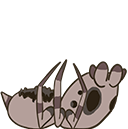
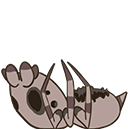
Ability zone hook

diff --git a/Output/src/AbilityZone.cpp b/Output/src/AbilityZone.cpp
@@ -78,7 +78,7 @@ bool AbilityZone::Start() {
 	jumpSprite = Engine::GetInstance().textures->Load("Assets/Props/huevosrana.png");
 	doubleJumpSprite = Engine::GetInstance().textures->Load("textures/doublejump_icon.png");
 	dashSprite = Engine::GetInstance().textures->Load("Assets/Props/Dash_Icon.png");
-	hookSprite = Engine::GetInstance().textures->Load("Assets/Props/Dash_Icon.png");
+	hookSprite = Engine::GetInstance().textures->Load("Assets/Props/araña.png");
 	glideSprite = Engine::GetInstance().textures->Load("Assets/Props/Glide_Icon.png");
 	wallJumpSprite = Engine::GetInstance().textures->Load("Assets/Props/WallJump_Icon.png");
 	pushSprite = Engine::GetInstance().textures->Load("Assets/Props/Push_Icon.png");
@@ -242,8 +242,8 @@ bool AbilityZone::Update(float dt)
 		drawn = true;
 	}
 	else if (type == "Hook" && hookSprite) {
-		int drawX = position.getX() + texW - abilitySpriteW - 100;
-		int drawY = position.getY() + texH / 2 - abilitySpriteH / 2 + 20;
+		int drawX = position.getX() + texW - abilitySpriteW - 200;
+		int drawY = position.getY() + texH / 2 - abilitySpriteH / 2 - 50;
 		Engine::GetInstance().render->DrawTexture(hookSprite, drawX, drawY);
 		drawn = true;
 	}
